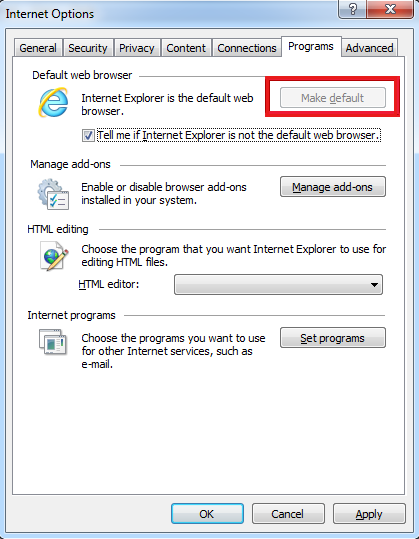
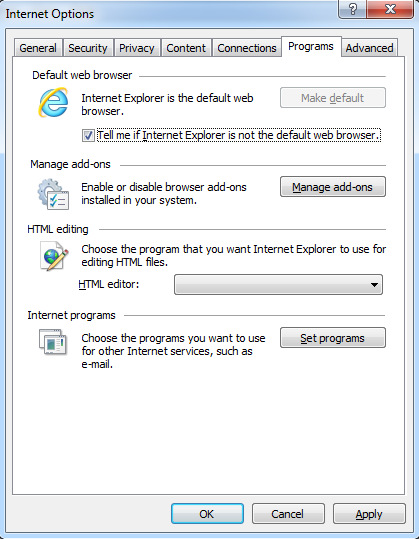
Image Improvement

Changed region(s): [[0.6205, 0.1187, 0.9618, 0.2375]]

diff --git a/Outlook/Client/message-body/https-linked-images-in-html-emails-show-red-x.md b/Outlook/Client/message-body/https-linked-images-in-html-emails-show-red-x.md
@@ -31,7 +31,7 @@ When you are using Microsoft Outlook, images will display a red X instead of the
 
 This error is shown in the following figure.
 
-:::image type="content" source="media/https-linked-images-in-html-emails-show-red-x/error.png" alt-text="Screenshot of the error details." border="false":::
+:::image type="content" source="media/https-linked-images-in-html-emails-show-red-x/error.png" alt-text="Screenshot of the image display error details." border="false":::
 
 ## Cause
 
@@ -49,7 +49,7 @@ To resolve this problem, disable the Internet Explorer Security setting **Do not
 
 In the event you are unable to disable the **Do not save encrypted pages to disk** option, it is being managed by Group Policy. Contact your system administrator to determine the appropriate configuration for this setting.
 
-:::image type="content" source="media/https-linked-images-in-html-emails-show-red-x/group-policy.png" alt-text="Screenshot of the group policy.":::
+:::image type="content" source="media/https-linked-images-in-html-emails-show-red-x/group-policy.png" alt-text="Screenshot of the checkboxes for enabling the group policy options. Do not save encrypted pages to disk option is enabled and in grey.":::
 
 ## More information
 

diff --git a/Outlook/Client/message-body/hyperlinks-not-working-in-outlook.md b/Outlook/Client/message-body/hyperlinks-not-working-in-outlook.md
@@ -109,7 +109,7 @@ To resolve this problem, follow these methods in order. Check whether the proble
 11. Select **OK**, and then close the **Default Programs** dialog box.
 12. In the **Internet Options** dialog box, select the **Programs** tab, and then select **Make default** under **Default web browser**.
 
-    :::image type="content" source="media/hyperlinks-not-working-in-outlook/make-default.png" alt-text="Screenshot of Internet Options." border="false":::
+    :::image type="content" source="media/hyperlinks-not-working-in-outlook/make-default.png" alt-text="Screenshot of the Programs tab on Internet Options." border="false":::
 
 13. Select **OK**.
 
